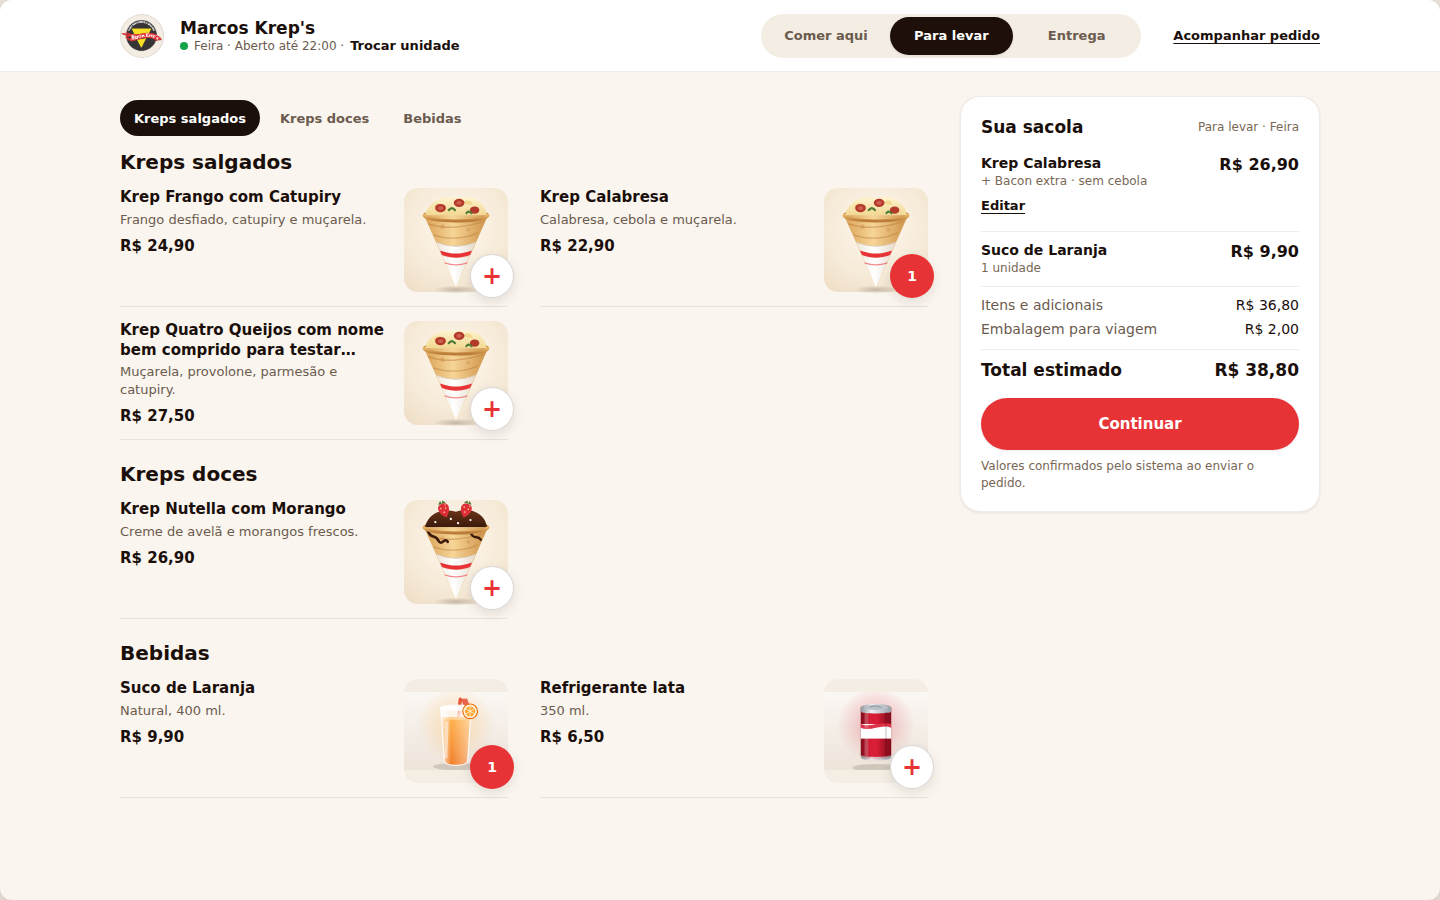
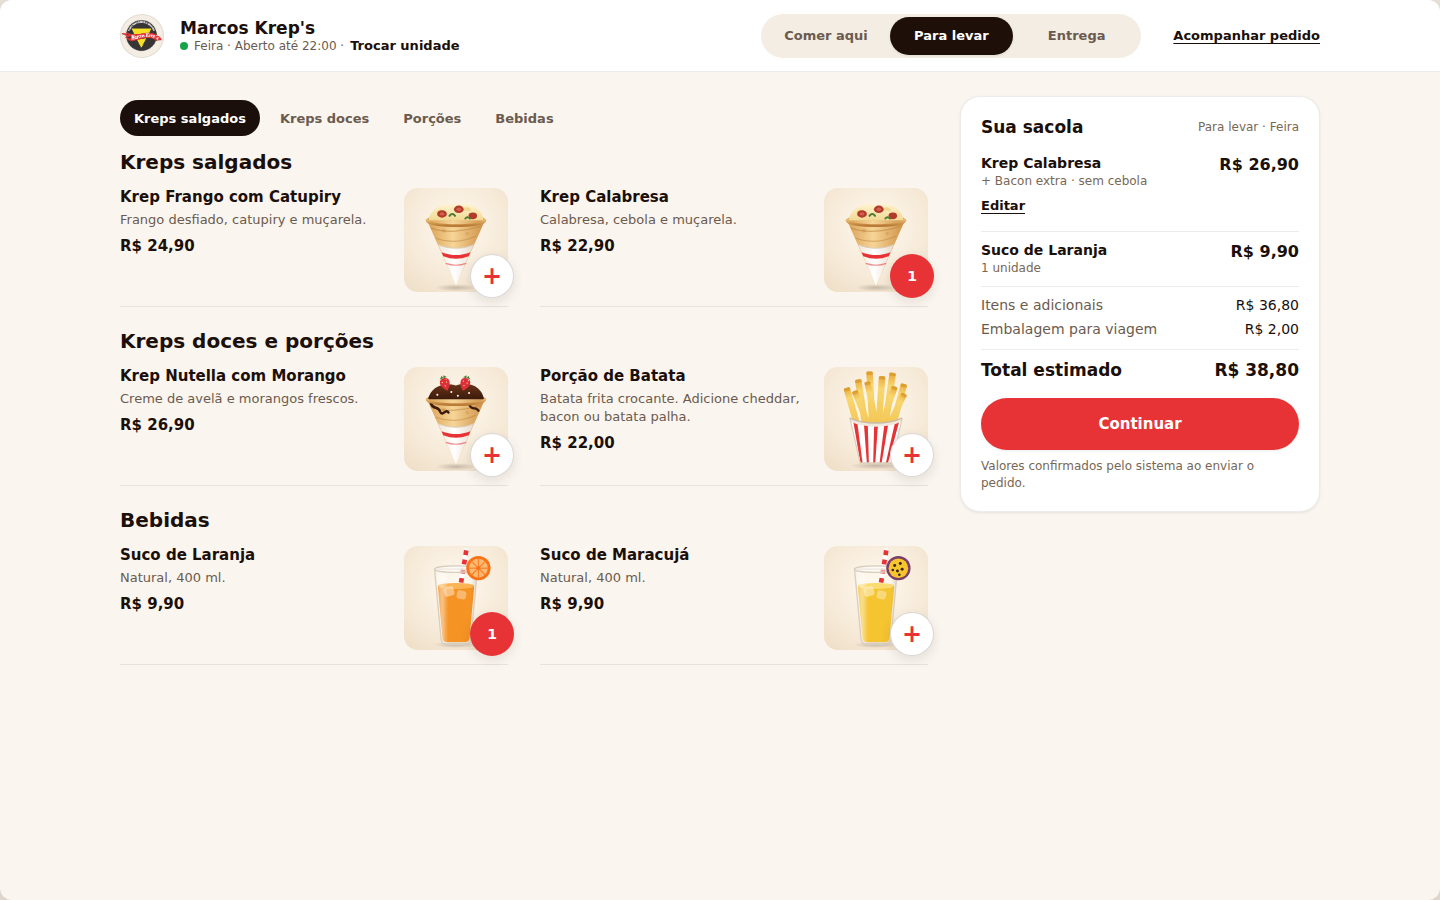
docs(pedir): ilustrações de sucos e batata no protótipo da #235

diff --git a/docs/evidence/issue-235/fase0/proposta.html b/docs/evidence/issue-235/fase0/proposta.html
@@ -71,7 +71,7 @@ p.doc{color:var(--text-secondary);font-size:13px;margin-bottom:24px;max-width:90
 .thumb{width:104px;height:104px;border-radius:var(--r-md);flex:none;position:relative;background:var(--bg-subtle);display:grid;place-items:center;overflow:visible}
 .thumb img{width:100%;height:100%;object-fit:contain;border-radius:var(--r-md)}
 .fallback{background:radial-gradient(circle at 50% 38%,#FFF9F0 0%,#F6EAD8 60%,#EEDDC5 100%)}
-.fallback svg{position:absolute;left:-10px;top:-12px;width:124px;height:124px}
+.fallback svg{position:absolute;left:-4px;top:-3px;width:112px;height:112px}
 .fallback small{position:absolute;top:8px;left:0;right:0;text-align:center;font-size:10px;font-weight:700;letter-spacing:.06em;text-transform:uppercase;color:#9A6B3F}
 .add{position:absolute;right:-6px;bottom:-6px;width:var(--tap);height:var(--tap);border-radius:50%;background:var(--bg-surface);border:1px solid var(--border-strong);box-shadow:var(--shadow-md);display:grid;place-items:center;color:var(--brand);font-size:24px;font-weight:600;line-height:1}
 .qtybadge{position:absolute;right:-6px;bottom:-6px;height:var(--tap);min-width:var(--tap);padding:0 12px;border-radius:var(--r-full);background:var(--brand);color:#fff;display:grid;place-items:center;font-weight:700;font-size:14px;box-shadow:var(--shadow-md)}
@@ -168,6 +168,19 @@ p.doc{color:var(--text-secondary);font-size:13px;margin-bottom:24px;max-width:90
 .d-grid{display:grid;grid-template-columns:1fr 1fr;gap:0 32px}
 .aside{background:var(--bg-surface);border:1px solid var(--border);border-radius:var(--r-lg);padding:20px;box-shadow:var(--shadow-sm);align-self:start}
 .d-tabs{display:flex;gap:6px;margin:4px 0 6px}
+.art{position:absolute;left:-4px;top:-3px;width:112px;height:112px}
+.j-laranja{--juice:#F59324;--juice-top:#FBB454;--fruit:#F97316;--fruit-in:#FDBA74}
+.j-maracuja{--juice:#F5C431;--juice-top:#FADB70}
+.j-morango{--juice:#E04A5F;--juice-top:#EF7A8A;--fruit:#DC2F3A}
+.j-limao{--juice:#C9DE7A;--juice-top:#DDEBA6;--fruit:#7CB342;--fruit-in:#DCEDC8}
+.j-manga{--juice:#F7B32B;--juice-top:#FBCB64;--fruit:#F59E0B;--fruit-in:#FDE68A}
+.j-acerola{--juice:#E8552F;--juice-top:#F27F5E;--fruit:#C62828}
+.j-abacaxi{--juice:#F1DC6B;--juice-top:#F7E99E}
+.gallery{display:grid;grid-template-columns:repeat(5,150px);gap:18px;background:var(--bg-base);padding:24px;border-radius:12px;box-shadow:var(--shadow-lg);width:max-content}
+.gallery figure{margin:0}
+.gallery .thumb{width:150px;height:150px}
+.gallery .art,.gallery .fallback svg{left:-6px;top:-4px;width:162px;height:162px}
+.gallery figcaption{font-size:12px;font-weight:600;color:var(--text-secondary);margin-top:8px;text-align:center}
 </style>
 </head>
 <body>
@@ -182,6 +195,9 @@ p.doc{color:var(--text-secondary);font-size:13px;margin-bottom:24px;max-width:90
     <linearGradient id="g-choc" x1="0" y1="0" x2="0" y2="1"><stop offset="0" stop-color="#6A3418"/><stop offset="1" stop-color="#3B1A0B"/></linearGradient>
     <linearGradient id="g-cheese" x1="0" y1="0" x2="0" y2="1"><stop offset="0" stop-color="#FFF4D2"/><stop offset="1" stop-color="#F2D891"/></linearGradient>
     <radialGradient id="g-shadow" cx=".5" cy=".5" r=".5"><stop offset="0" stop-color="#1E1008" stop-opacity=".22"/><stop offset="1" stop-color="#1E1008" stop-opacity="0"/></radialGradient>
+    <linearGradient id="g-shine" x1="0" y1="0" x2="1" y2="0"><stop offset="0" stop-color="#fff" stop-opacity=".0"/><stop offset=".18" stop-color="#fff" stop-opacity=".45"/><stop offset=".32" stop-color="#fff" stop-opacity="0"/><stop offset=".85" stop-color="#000" stop-opacity="0"/><stop offset="1" stop-color="#000" stop-opacity=".12"/></linearGradient>
+    <linearGradient id="g-fry" x1="0" y1="0" x2="0" y2="1"><stop offset="0" stop-color="#E9A93A"/><stop offset=".25" stop-color="#F8D670"/><stop offset="1" stop-color="#F3C653"/></linearGradient>
+    <clipPath id="c-box"><path d="M32 58 L43 106 L77 106 L88 58 C72 65 48 65 32 58 Z"/></clipPath>
   </defs>
   <symbol id="cone" viewBox="0 0 120 120">
     <ellipse cx="60" cy="110" rx="22" ry="4" fill="url(#g-shadow)"/>
@@ -216,6 +232,54 @@ p.doc{color:var(--text-secondary);font-size:13px;margin-bottom:24px;max-width:90
     <path d="M74 43 C77 51 81 45 84 50" fill="none" stroke="#3B1A0B" stroke-width="2.4" stroke-linecap="round"/>
     <path d="M29 38 A31 5.5 0 0 0 91 38" fill="none" stroke="url(#g-rim)" stroke-width="3" stroke-linecap="round"/>
   </symbol>
+  <symbol id="glass" viewBox="0 0 120 120">
+    <ellipse cx="60" cy="109" rx="24" ry="3.6" fill="url(#g-shadow)"/>
+    <path d="M71 8 L61 70" stroke="#FFFFFF" stroke-width="5" stroke-linecap="round"/>
+    <path d="M71 8 L61 70" stroke="#E73335" stroke-width="5" stroke-linecap="butt" stroke-dasharray="5 5"/>
+    <path d="M40.5 46 L45.5 102.5 Q46.3 106 50 106 L70 106 Q73.7 106 74.5 102.5 L79.5 46 Z" fill="var(--juice)"/>
+    <ellipse cx="60" cy="46" rx="19.5" ry="3.2" fill="var(--juice-top)"/>
+    <rect x="47" y="47" width="11" height="10" rx="2.5" fill="#fff" opacity=".42" transform="rotate(-14 52 52)"/>
+    <rect x="61" y="51" width="10" height="9" rx="2.5" fill="#fff" opacity=".35" transform="rotate(12 66 55)"/>
+    <path d="M37 28 L44 103 Q45 108.5 50 108.5 L70 108.5 Q75 108.5 76 103 L83 28 Z" fill="url(#g-shine)" stroke="#D8CDBF" stroke-width="1.4"/>
+    <ellipse cx="60" cy="28" rx="23" ry="3.4" fill="#FFFFFF" fill-opacity=".5" stroke="#D8CDBF" stroke-width="1.4"/>
+  </symbol>
+  <symbol id="g-slice" viewBox="0 0 120 120">
+    <circle cx="84" cy="27" r="13" fill="var(--fruit)"/><circle cx="84" cy="27" r="10" fill="var(--fruit-in)"/>
+    <g stroke="var(--fruit)" stroke-width="1.3" opacity=".8"><path d="M84 17 V37"/><path d="M74 27 H94"/><path d="M77 20 L91 34"/><path d="M91 20 L77 34"/></g>
+    <circle cx="84" cy="27" r="2" fill="var(--fruit)"/>
+  </symbol>
+  <symbol id="g-berry" viewBox="0 0 120 120">
+    <g transform="translate(84 25) rotate(20)"><path d="M0 12 C-9 4 -9 -6 0 -6 C9 -6 9 4 0 12 Z" fill="var(--fruit)"/><path d="M-5 -6 L-1.5 -10 L0 -6 L1.5 -10 L5 -6 Z" fill="#4F7A35"/><circle cx="-3" cy="-1" r=".9" fill="#FFE08A"/><circle cx="2.5" cy="0" r=".9" fill="#FFE08A"/><circle cx="-.5" cy="5" r=".9" fill="#FFE08A"/><circle cx="3" cy="-3.5" r=".8" fill="#FFE08A"/></g>
+  </symbol>
+  <symbol id="g-passion" viewBox="0 0 120 120">
+    <circle cx="84" cy="27" r="13" fill="#7A3E6A"/><circle cx="84" cy="27" r="10.5" fill="#F7C62F"/>
+    <g fill="#3B2410"><circle cx="80" cy="24" r="1.6"/><circle cx="86" cy="22" r="1.6"/><circle cx="88" cy="28" r="1.6"/><circle cx="83" cy="30" r="1.6"/><circle cx="78" cy="29" r="1.4"/><circle cx="85" cy="34" r="1.4"/></g>
+  </symbol>
+  <symbol id="g-mint" viewBox="0 0 120 120">
+    <path d="M74 32 C66 26 68 16 78 14 C81 22 80 29 74 32 Z" fill="#5E9B45"/><path d="M74 32 C76 25 77 19 78 14" stroke="#3F7A2E" stroke-width="1.1" fill="none"/>
+  </symbol>
+  <symbol id="g-mango" viewBox="0 0 120 120">
+    <path d="M73 30 C72 18 84 12 94 18 C99 24 96 36 84 38 C78 38 74 35 73 30 Z" fill="#F59E0B"/>
+    <g stroke="#FDE68A" stroke-width="1.4" fill="none"><path d="M78 20 L92 34"/><path d="M84 16 L96 28"/><path d="M90 18 L76 32"/><path d="M95 22 L81 37"/></g>
+  </symbol>
+  <symbol id="g-acerola" viewBox="0 0 120 120">
+    <circle cx="80" cy="28" r="6.5" fill="#C62828"/><circle cx="90" cy="31" r="5.8" fill="#E53935"/>
+    <circle cx="78" cy="26" r="1.8" fill="#fff" opacity=".55"/><circle cx="88" cy="29" r="1.6" fill="#fff" opacity=".55"/>
+    <path d="M83 21 C86 16 92 15 96 18 C92 22 87 22 83 21 Z" fill="#4F7A35"/>
+  </symbol>
+  <symbol id="g-pineapple" viewBox="0 0 120 120">
+    <path d="M72 34 L92 16 L98 36 Z" fill="#F7D74A"/><path d="M92 16 L98 36 L101 35 L95 14 Z" fill="#B7791F"/>
+    <g stroke="#E3B62F" stroke-width="1"><path d="M80 31 L95 22"/><path d="M84 34 L96 27"/></g>
+  </symbol>
+  <symbol id="batata" viewBox="0 0 120 120">
+    <ellipse cx="60" cy="109" rx="28" ry="4" fill="url(#g-shadow)"/>
+    <g transform="rotate(-16 39.5 64.0)"><rect x="36" y="24" width="7" height="44" rx="2" fill="url(#g-fry)"/><rect x="36" y="24" width="7" height="3.5" rx="1.5" fill="#D99A2B" opacity=".75"/></g><g transform="rotate(-9 47.5 59.0)"><rect x="44" y="16" width="7" height="50" rx="2" fill="url(#g-fry)"/><rect x="44" y="16" width="7" height="3.5" rx="1.5" fill="#D99A2B" opacity=".75"/></g><g transform="rotate(-3 55.5 55.0)"><rect x="52" y="8" width="7" height="58" rx="2" fill="url(#g-fry)"/><rect x="52" y="8" width="7" height="3.5" rx="1.5" fill="#D99A2B" opacity=".75"/></g><g transform="rotate(4 63.5 57.5)"><rect x="60" y="13" width="7" height="53" rx="2" fill="url(#g-fry)"/><rect x="60" y="13" width="7" height="3.5" rx="1.5" fill="#D99A2B" opacity=".75"/></g><g transform="rotate(8 71.5 55.5)"><rect x="68" y="9" width="7" height="57" rx="2" fill="url(#g-fry)"/><rect x="68" y="9" width="7" height="3.5" rx="1.5" fill="#D99A2B" opacity=".75"/></g><g transform="rotate(15 79.5 61.0)"><rect x="76" y="20" width="7" height="46" rx="2" fill="url(#g-fry)"/><rect x="76" y="20" width="7" height="3.5" rx="1.5" fill="#D99A2B" opacity=".75"/></g><g transform="rotate(-22 51.25 64.0)"><rect x="48" y="26" width="6.5" height="40" rx="2" fill="url(#g-fry)"/><rect x="48" y="26" width="6.5" height="3.5" rx="1.5" fill="#D99A2B" opacity=".75"/></g><g transform="rotate(19 67.25 62.0)"><rect x="64" y="22" width="6.5" height="44" rx="2" fill="url(#g-fry)"/><rect x="64" y="22" width="6.5" height="3.5" rx="1.5" fill="#D99A2B" opacity=".75"/></g><g transform="rotate(-12 59.25 60.0)"><rect x="56" y="18" width="6.5" height="48" rx="2" fill="url(#g-fry)"/><rect x="56" y="18" width="6.5" height="3.5" rx="1.5" fill="#D99A2B" opacity=".75"/></g><g transform="rotate(26 74.25 65.0)"><rect x="71" y="28" width="6.5" height="38" rx="2" fill="url(#g-fry)"/><rect x="71" y="28" width="6.5" height="3.5" rx="1.5" fill="#D99A2B" opacity=".75"/></g>
+    <path d="M32 58 L43 106 L77 106 L88 58 C72 65 48 65 32 58 Z" fill="#FFFFFF"/>
+    <g clip-path="url(#c-box)" fill="#E73335"><path d="M35.0 58 L39.4 58 L45.6 106 L43.4 106 Z"/><path d="M46.6 58 L51.0 58 L52.4 106 L50.2 106 Z"/><path d="M58.2 58 L62.6 58 L59.2 106 L57.0 106 Z"/><path d="M69.8 58 L74.2 58 L66.0 106 L63.8 106 Z"/><path d="M81.4 58 L85.8 58 L72.8 106 L70.6 106 Z"/></g>
+    <path d="M32 58 C48 65 72 65 88 58 L87 62 C72 69 48 69 33 62 Z" fill="#F1E8DC"/>
+    <path d="M32 58 L43 106 L77 106 L88 58" fill="none" stroke="#D8CBBB" stroke-width="1.2"/>
+    <path d="M32 58 C48 65 72 65 88 58" fill="none" stroke="#C9B9A6" stroke-width="1.6"/>
+  </symbol>
 </svg>
 
 <!-- ───────────── MOBILE ───────────── -->
@@ -246,7 +310,7 @@ p.doc{color:var(--text-secondary);font-size:13px;margin-bottom:24px;max-width:90
     <div class="sec">
       <div class="t-h2">Bebidas</div>
       <div class="list">
-        <div class="item"><div class="txt"><div class="nm">Suco de Laranja</div><div class="ds">Natural, 400 ml.</div><div class="pr price">R$ 9,90</div></div><div class="thumb"><img src="../../../../public/cardapio/bebidas/suco-laranja.svg" alt=""><span class="add">+</span></div></div>
+        <div class="item"><div class="txt"><div class="nm">Suco de Laranja</div><div class="ds">Natural, 400 ml.</div><div class="pr price">R$ 9,90</div></div><div class="thumb fallback"><svg class="art j-laranja" viewBox="0 0 120 120"><use href="#glass"/><use href="#g-slice"/></svg><span class="add">+</span></div></div>
       </div>
     </div>
   </div>
@@ -392,6 +456,22 @@ p.doc{color:var(--text-secondary);font-size:13px;margin-bottom:24px;max-width:90
 </div>
 
 <!-- ───────────── DESKTOP ───────────── -->
+<section id="galeria" style="margin-bottom:40px">
+<p class="caption">9 · Ilustrações de fallback (sem foto cadastrada)</p>
+<div class="gallery">
+  <figure><div class="thumb fallback"><svg class="art" viewBox="0 0 120 120"><use href="#crepe"/></svg></div><figcaption>Krep salgado</figcaption></figure>
+  <figure><div class="thumb fallback"><svg class="art" viewBox="0 0 120 120"><use href="#crepe-sweet"/></svg></div><figcaption>Krep doce</figcaption></figure>
+  <figure><div class="thumb fallback"><svg class="art" viewBox="0 0 120 120"><use href="#batata"/></svg></div><figcaption>Porção de batata</figcaption></figure>
+  <figure><div class="thumb fallback"><svg class="art j-laranja" viewBox="0 0 120 120"><use href="#glass"/><use href="#g-slice"/></svg></div><figcaption>Suco de laranja</figcaption></figure>
+  <figure><div class="thumb fallback"><svg class="art j-maracuja" viewBox="0 0 120 120"><use href="#glass"/><use href="#g-passion"/></svg></div><figcaption>Suco de maracujá</figcaption></figure>
+  <figure><div class="thumb fallback"><svg class="art j-morango" viewBox="0 0 120 120"><use href="#glass"/><use href="#g-berry"/></svg></div><figcaption>Suco de morango</figcaption></figure>
+  <figure><div class="thumb fallback"><svg class="art j-limao" viewBox="0 0 120 120"><use href="#glass"/><use href="#g-slice"/></svg></div><figcaption>Suco de limão</figcaption></figure>
+  <figure><div class="thumb fallback"><svg class="art j-manga" viewBox="0 0 120 120"><use href="#glass"/><use href="#g-mango"/></svg></div><figcaption>Suco de manga</figcaption></figure>
+  <figure><div class="thumb fallback"><svg class="art j-acerola" viewBox="0 0 120 120"><use href="#glass"/><use href="#g-acerola"/></svg></div><figcaption>Suco de acerola</figcaption></figure>
+  <figure><div class="thumb fallback"><svg class="art j-abacaxi" viewBox="0 0 120 120"><use href="#glass"/><use href="#g-pineapple"/><use href="#g-mint"/></svg></div><figcaption>Abacaxi com hortelã</figcaption></figure>
+</div>
+</section>
+
 <section id="d-menu" style="margin-bottom:40px">
 <p class="caption">7 · Vitrine desktop (1440)</p>
 <div class="desk">
@@ -403,21 +483,21 @@ p.doc{color:var(--text-secondary);font-size:13px;margin-bottom:24px;max-width:90
   </div>
   <div class="d-wrap">
     <div>
-      <div class="d-tabs"><span class="tab on">Kreps salgados</span><span class="tab">Kreps doces</span><span class="tab">Bebidas</span></div>
+      <div class="d-tabs"><span class="tab on">Kreps salgados</span><span class="tab">Kreps doces</span><span class="tab">Porções</span><span class="tab">Bebidas</span></div>
       <div class="t-h2" style="margin-top:14px;font-size:20px">Kreps salgados</div>
       <div class="d-grid">
         <div class="item"><div class="txt"><div class="nm">Krep Frango com Catupiry</div><div class="ds">Frango desfiado, catupiry e muçarela.</div><div class="pr price">R$ 24,90</div></div><div class="thumb fallback"><svg><use href="#crepe"/></svg><span class="add">+</span></div></div>
         <div class="item"><div class="txt"><div class="nm">Krep Calabresa</div><div class="ds">Calabresa, cebola e muçarela.</div><div class="pr price">R$ 22,90</div></div><div class="thumb fallback"><svg><use href="#crepe"/></svg><span class="qtybadge">1</span></div></div>
-        <div class="item"><div class="txt"><div class="nm">Krep Quatro Queijos com nome bem comprido para testar quebra</div><div class="ds">Muçarela, provolone, parmesão e catupiry.</div><div class="pr price">R$ 27,50</div></div><div class="thumb fallback"><svg><use href="#crepe"/></svg><span class="add">+</span></div></div>
-      </div>
-      <div class="t-h2" style="margin-top:22px;font-size:20px">Kreps doces</div>
+        </div>
+      <div class="t-h2" style="margin-top:22px;font-size:20px">Kreps doces e porções</div>
       <div class="d-grid">
         <div class="item"><div class="txt"><div class="nm">Krep Nutella com Morango</div><div class="ds">Creme de avelã e morangos frescos.</div><div class="pr price">R$ 26,90</div></div><div class="thumb fallback"><svg><use href="#crepe-sweet"/></svg><span class="add">+</span></div></div>
+        <div class="item"><div class="txt"><div class="nm">Porção de Batata</div><div class="ds">Batata frita crocante. Adicione cheddar, bacon ou batata palha.</div><div class="pr price">R$ 22,00</div></div><div class="thumb fallback"><svg class="art" viewBox="0 0 120 120"><use href="#batata"/></svg><span class="add">+</span></div></div>
       </div>
       <div class="t-h2" style="margin-top:22px;font-size:20px">Bebidas</div>
       <div class="d-grid">
-        <div class="item"><div class="txt"><div class="nm">Suco de Laranja</div><div class="ds">Natural, 400 ml.</div><div class="pr price">R$ 9,90</div></div><div class="thumb"><img src="../../../../public/cardapio/bebidas/suco-laranja.svg" alt=""><span class="qtybadge">1</span></div></div>
-        <div class="item"><div class="txt"><div class="nm">Refrigerante lata</div><div class="ds">350 ml.</div><div class="pr price">R$ 6,50</div></div><div class="thumb"><img src="../../../../public/cardapio/bebidas/refri-cola-lata.svg" alt=""><span class="add">+</span></div></div>
+        <div class="item"><div class="txt"><div class="nm">Suco de Laranja</div><div class="ds">Natural, 400 ml.</div><div class="pr price">R$ 9,90</div></div><div class="thumb fallback"><svg class="art j-laranja" viewBox="0 0 120 120"><use href="#glass"/><use href="#g-slice"/></svg><span class="qtybadge">1</span></div></div>
+        <div class="item"><div class="txt"><div class="nm">Suco de Maracujá</div><div class="ds">Natural, 400 ml.</div><div class="pr price">R$ 9,90</div></div><div class="thumb fallback"><svg class="art j-maracuja" viewBox="0 0 120 120"><use href="#glass"/><use href="#g-passion"/></svg><span class="add">+</span></div></div>
       </div>
     </div>
     <aside class="aside">

diff --git a/docs/archive/studies/proposta-pedir-issue-235.md b/docs/archive/studies/proposta-pedir-issue-235.md
@@ -168,6 +168,12 @@ Ajustes pedidos pelo operador nesta rodada (29/10):
   “(obrigatório)/(opcional)” nem texto de ajuda. Já aplicado no código (PR #239). Em ENTREGA,
   continuar sem número válido ainda mostra o erro acima do botão e não cria o pedido.
 - **Ilustração do krep** redesenhada (cone com luva de papel), no lugar do triângulo simples.
+- **Família de ilustrações** ([galeria](../../evidence/issue-235/fase0/proposta-ilustracoes.png)):
+  krep salgado, krep doce, porção de batata (caixa de papel com listras da marca) e sucos
+  num copo único com canudo listrado. A cor do suco e a fruta da borda mudam por sabor:
+  laranja, maracujá, morango, limão, manga, acerola e abacaxi com hortelã. São vetores
+  (SVG) feitos para o protótipo; na implementação viram arquivos em `public/cardapio/` e só
+  aparecem quando o produto não tem foto cadastrada.
 
 Os textos de status da confirmação são exemplos; na implementação vêm dos status reais
 (`order-tracking-helpers.ts`). Valores e horários vêm sempre do servidor e da filial.
@@ -185,6 +191,9 @@ Os textos de status da confirmação são exemplos; na implementação vêm dos 
    é intencional? (Configuração, fora do código.)
 7. **“+” adiciona direto** produtos sem adicionais obrigatórios (tocar no card abre a
    personalização); com adicionais obrigatórios, o “+” abre a folha.
+8. **Ilustrações**: aprovar a família nova e decidir se ela substitui as artes atuais de
+   bebidas em `public/cardapio/bebidas/` (usadas hoje nos sucos e refrigerantes) ou só
+   cobre produtos sem imagem. Sabores sem arte própria usariam a cor genérica do copo.
 
 ## Plano após aprovação (sem backend/migrations)
 
